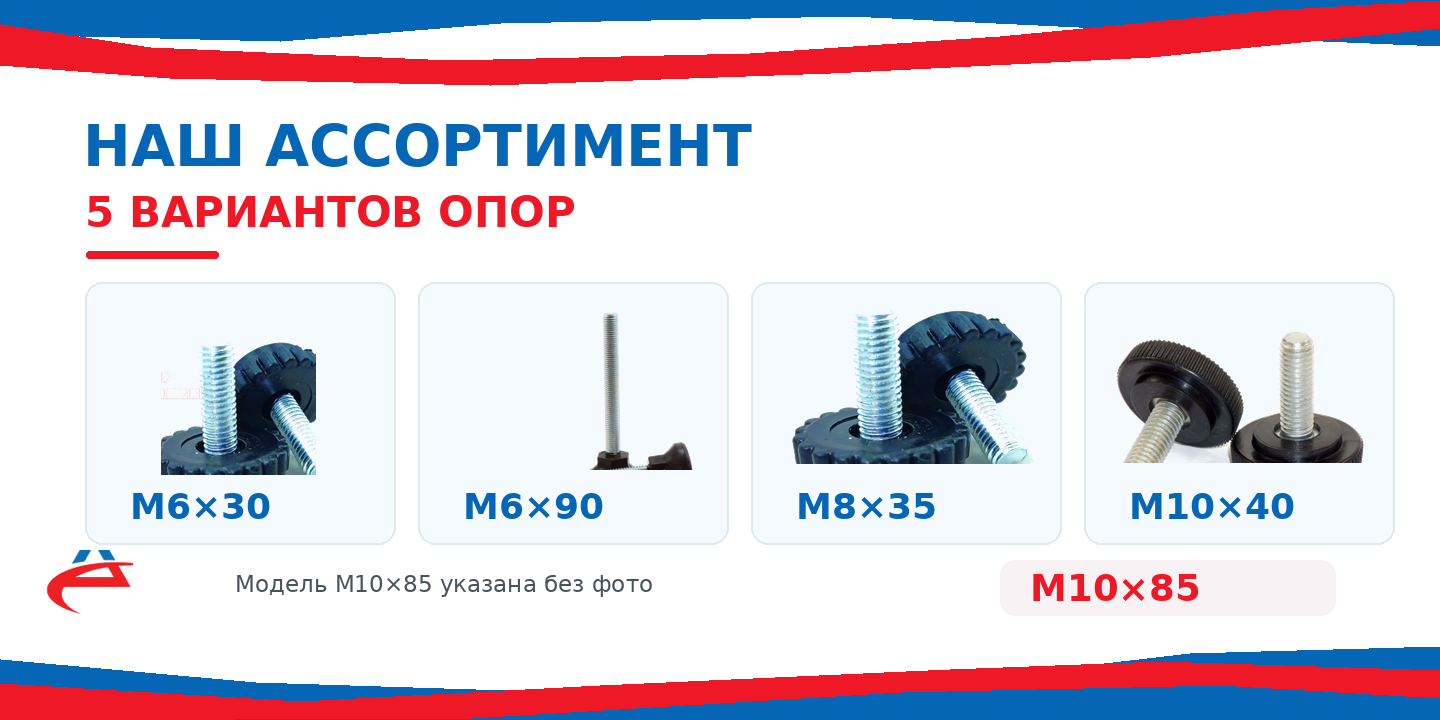
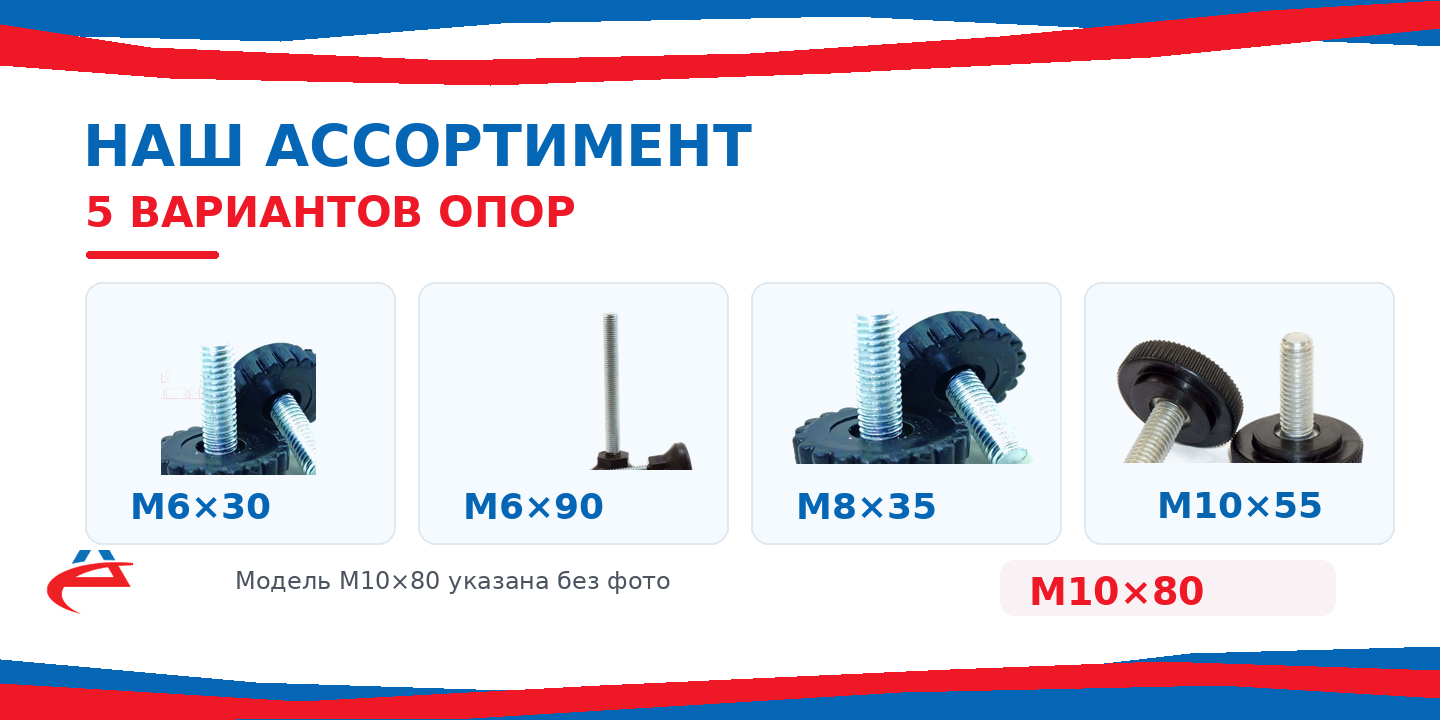
Correct M10 support sizes to M10x55 and M10x80 in Ozon rich content

Changed region(s): [[0.7812, 0.6722, 0.9375, 0.7333], [0.1562, 0.7944, 0.4688, 0.825], [0.7188, 0.7944, 0.8438, 0.8556]]

diff --git a/ozon/rich-content/nozhki-opory-5-razmerov-2026-11-25/README.md b/ozon/rich-content/nozhki-opory-5-razmerov-2026-11-25/README.md
@@ -1,9 +1,11 @@
 # Rich-content Ozon: регулируемые ножки-опоры
 
-Готовый комплект Alistek, 6 баннеров 1440×720 PNG и richcontent_ozon.json.
+Исправленный комплект Alistek: 6 баннеров по 1440×720 PNG и `richcontent_ozon.json`.
 
-Размеры ассортимента: М6×30, М6×90, М8×35, М10×40, М10×85.
+**Актуальные размеры:** М6×30, М6×90, М8×35, М10×55, М10×80.
 
-Важное уточнение: отдельного исходного фото М10×85 в предоставленном наборе нет. На баннере М10 показывается фото М10×40, размер М10×85 указан текстом без подмены товара.
+Исправлены только текстовые обозначения в баннерах 02 и 05; изображения товаров, логотип, фон и габариты сохранены. На баннере 05 в подписи к фото указано М10×55; для М10×80 отдельное фото не использовано.
 
-Вставляйте содержимое richcontent_ozon.json в редактор JSON Ozon. Проверка фактического сохранения в личном кабинете не проводилась.
+Обновлённый JSON ссылается на новые имена файлов с исправленными размерами, чтобы исключить устаревшие версии из кеша. Старые имена PNG тоже заменены на исправленное содержимое для обратной совместимости.
+
+Вставьте содержимое `richcontent_ozon.json` в JSON-редактор Ozon. Успешное сохранение в личном кабинете Ozon не проверено.
